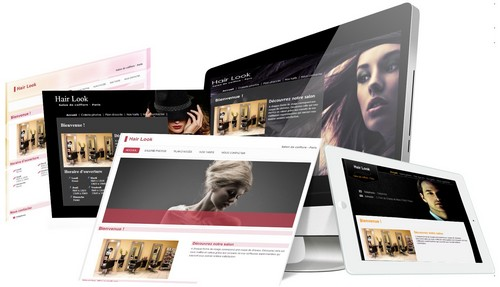
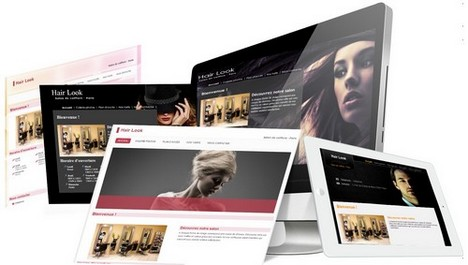
add scroll animate

diff --git a/src/Salonrama/MainBundle/Resources/public/css/slider.css b/src/Salonrama/MainBundle/Resources/public/css/slider.css
@@ -1,6 +1,6 @@
 .slider{
 position:relative;
-height:320px;
+height:310px;
 overflow:hidden;
 }
 .slider-list{
